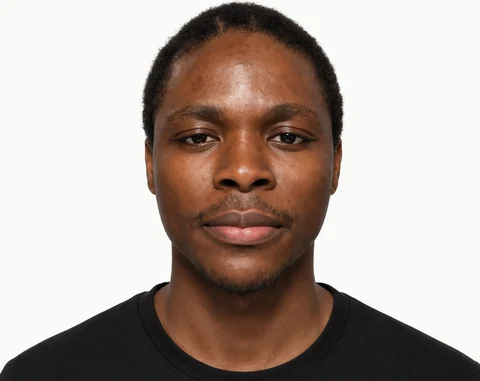
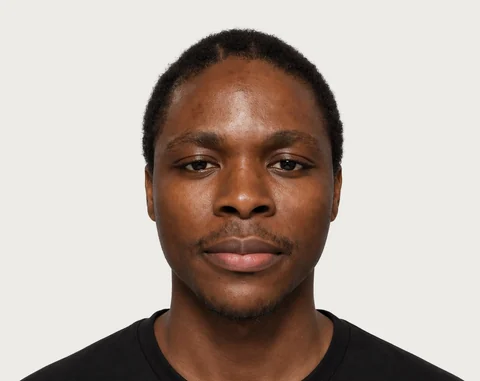
Portrait backdrop and headroom, new About copy, bolder meta values
- Portrait: re-exported on an off-white backdrop ($plate-clip, #ECEBE6)
  instead of the page ground, so it reads as a tile in the name rather
  than a floating head, and cropped with 70px of headroom so the hair
  no longer touches the top edge. URLs bumped to ?v=3 for the cache;
  export-portrait.py updated to match.
- About copy: new statement and "Open to" items. At 390 x 844 the open
  About now uses the flow fallback (the page scrolls).
- Case studies: meta values (role, year, stack, status) in Medium, labels
  stay Book and muted.

diff --git a/src/index.html b/src/index.html
@@ -33,7 +33,7 @@
            role line and the work list for the About; see ts/about.ts. The heading's name stays
            "Balogun Oluwasogo" through aria-labelledby. -->
       <h1 class="intro__name" aria-labelledby="name-first name-last">
-        <span class="intro__name-line"><span id="name-first">Balogun</span> <button class="intro__portrait" type="button" aria-label="About Oluwasogo" aria-expanded="false" aria-controls="about-statement about" data-about-toggle><img class="intro__portrait-image" src="assets/images/portrait/portrait-480.webp" srcset="assets/images/portrait/portrait-240.webp 240w, assets/images/portrait/portrait-480.webp 480w" sizes="(min-width: 1024px) 9vw, 15vw" width="480" height="381" alt="" decoding="async"></button></span>
+        <span class="intro__name-line"><span id="name-first">Balogun</span> <button class="intro__portrait" type="button" aria-label="About Oluwasogo" aria-expanded="false" aria-controls="about-statement about" data-about-toggle><img class="intro__portrait-image" src="assets/images/portrait/portrait-480.webp?v=3" srcset="assets/images/portrait/portrait-240.webp?v=3 240w, assets/images/portrait/portrait-480.webp?v=3 480w" sizes="(min-width: 1024px) 9vw, 15vw" width="480" height="381" alt="" decoding="async"></button></span>
         <span class="intro__name-line" id="name-last">Oluwasogo</span>
       </h1>
       <div class="intro__lead">
@@ -41,7 +41,7 @@
           <span class="intro__role-line">Software Engineer &amp;</span>
           <span class="intro__role-line">Digital Designer</span>
         </p>
-        <p class="intro__statement" id="about-statement" data-about-statement>I design interfaces and build them myself, so what gets designed is what ships.</p>
+        <p class="intro__statement" id="about-statement" data-about-statement>I design and build digital experiences, from the way they work to the details that make them feel good to use.</p>
       </div>
     </header>
 
@@ -66,9 +66,9 @@
             </div>
             <div class="about__fact">
               <dt>Open to</dt>
-              <dd>Frontend builds and product interfaces</dd>
-              <dd>Webflow websites</dd>
-              <dd>Interaction and motion</dd>
+              <dd>Product design and development</dd>
+              <dd>Custom websites and Webflow builds</dd>
+              <dd>Interaction design and motion</dd>
             </div>
           </dl>
         </div>

diff --git a/docs/handoff/about/reference/index.html b/docs/handoff/about/reference/index.html
@@ -44,7 +44,7 @@
           <span class="intro__role-line">Software Engineer &amp;</span>
           <span class="intro__role-line">Digital Designer</span>
         </p>
-        <p class="intro__statement" id="about-statement" data-about-statement="">I design interfaces and build them myself, so what gets designed is what ships.</p>
+        <p class="intro__statement" id="about-statement" data-about-statement="">I design and build digital experiences, from the way they work to the details that make them feel good to use.</p>
       </div>
     </header>
 
@@ -69,9 +69,9 @@
             </div>
             <div class="about__fact">
               <dt>Open to</dt>
-              <dd>Frontend builds and product interfaces</dd>
-              <dd>Webflow websites</dd>
-              <dd>Interaction and motion</dd>
+              <dd>Product design and development</dd>
+              <dd>Custom websites and Webflow builds</dd>
+              <dd>Interaction design and motion</dd>
             </div>
           </dl>
         </div>

diff --git a/src/scss/_case.scss b/src/scss/_case.scss
@@ -422,10 +422,12 @@ $case-lsb-book: (
   }
 }
 
+// Values in Medium, labels in Book and muted: one step of contrast between the two.
 .case-meta__group {
   display: flex;
   flex-direction: column;
   gap: 2px;
+  font-weight: $weight-medium;
 
   @include desktop {
     grid-column: span 3;
@@ -434,6 +436,7 @@ $case-lsb-book: (
 }
 
 .case-meta__label {
+  font-weight: $weight-regular;
   color: $color-muted;
 
   // Only the label gets the 4px, so Status's value and site link sit line to line like wrapped text.

diff --git a/docs/handoff/about/export-portrait.py b/docs/handoff/about/export-portrait.py
@@ -1,26 +1,29 @@
 """Export the home-page portrait from the original photo.
 
-The photo has a plain white background. Instead of blending it into the page at runtime
-(mix-blend-mode changes how Chrome renders every line of text on the page), the page's ground
-colour is multiplied into the pixels here, so the background comes out as #FAFAF8 and only the
-head and shoulders read on the page.
+The photo has a plain white background. Instead of blending it at runtime (mix-blend-mode
+changes how Chrome renders every line of text on the page), a backdrop colour is multiplied into
+the pixels here. It's $plate-clip (#ECEBE6), one step darker than the #FAFAF8 ground, so the
+portrait reads as a small tile in the name rather than a head floating on the page. (The first
+export baked the ground itself; that looked like a floating head.)
 
-Crop: the full width, from 2px above the top of the hair, at the portrait's ratio
-(0.9em x 0.715em, see $portrait-width and $cap-height-medium), so the hair touches the cap line
-and the shoulders sit on the baseline.
+Crop: the full width, from 70px above the top of the hair, at the portrait's ratio
+(0.9em x 0.715em, see $portrait-width and $cap-height-medium), so there's a little headroom
+inside the tile and the shoulders sit on the baseline. (The first export started 2px above the
+hair, which made the head touch the top of the frame.)
 
 Usage (from the repo root, needs Pillow):
     python docs/handoff/about/export-portrait.py "Balogun Oluwasogo Profile.jpg"
-If the ground colour ever changes, update GROUND and run it again.
+If the backdrop should change, update BACKDROP and run it again. Bump the ?v= on the portrait
+URLs in src/index.html too, because images are cached for a week.
 """
 import sys
 from pathlib import Path
 
 from PIL import Image
 
-GROUND = (250, 250, 248)  # $color-ground, #FAFAF8
+BACKDROP = (236, 235, 230)  # $plate-clip, #ECEBE6
 RATIO = 0.9 / 0.715  # $portrait-width / $cap-height-medium
-TOP = 126  # 2px above the top of the hair in the 1254 x 1254 original
+TOP = 56  # 70px above the top of the hair (row 126) in the 1254 x 1254 original
 WIDTHS = (240, 480)
 OUT = Path('src/assets/images/portrait')
 
@@ -29,10 +32,10 @@ def main(source: str) -> None:
     photo = Image.open(source).convert('RGB')
     width = photo.width
     crop = photo.crop((0, TOP, width, TOP + round(width / RATIO)))
-    # The background is 254 white: lift it to 255, then multiply the ground in.
+    # The background is 254 white: lift it to 255, then multiply the backdrop in.
     channels = []
-    for band, ground in zip(crop.split(), GROUND):
-        channels.append(band.point(lambda v, g=ground: round(min(255, v * 255 / 254) * g / 255)))
+    for band, backdrop in zip(crop.split(), BACKDROP):
+        channels.append(band.point(lambda v, b=backdrop: round(min(255, v * 255 / 254) * b / 255)))
     baked = Image.merge('RGB', channels)
     OUT.mkdir(parents=True, exist_ok=True)
     for w in WIDTHS:

diff --git a/CLAUDE.md b/CLAUDE.md
@@ -16,7 +16,7 @@ Balogun Oluwasogo's personal portfolio: a home page and four case studies (`/wor
 - **About:** a portrait sits inside the name ("Balogun [photo] Oluwasogo") as one more glyph: cap height tall (`$cap-height-medium`), bottom on the baseline, `$portrait-width` wide. It's a `<button>` ("About Oluwasogo", with `aria-expanded`); the `<h1>` keeps its name through `aria-labelledby`. Opening it sets `.page.is-about-open` (`src/ts/about.ts`): the role line becomes a statement and "Work" and the list become the About (bio, then Now / Open to), laid over what they replace so the default layout never moves. Spec: `docs/handoff/about/README.md`.
   - **Input:** on desktop with a mouse (the preview's media query) hover opens it at once and leaving closes it after 100ms; a mouse click does nothing. Touch, pen and anything without that match tap to toggle. Keyboard: Enter and Space toggle; Escape, Tab, Shift+Tab and (on desktop) blur close it. Focus alone never opens it, because the portrait is the first tab stop.
   - **Flow fallback:** if the About would come within 32px of the statement (short screens such as 375 × 667 or 1280 × 600), `.page.is-about-flow` drops the role and the list and puts the statement and About in the flow, so the page scrolls instead of overlapping.
-  - **The photo:** `src/assets/images/portrait/` is final. Its white background is baked to the ground colour by `docs/handoff/about/export-portrait.py`; run that again if the ground changes. Never use `mix-blend-mode` on it: it changes how Chrome rasterises every line of text on the page.
+  - **The photo:** `src/assets/images/portrait/` is final. Its white background is baked to an off-white backdrop, `$plate-clip` (#ECEBE6), by `docs/handoff/about/export-portrait.py`, so it reads as a small tile in the name; baking the ground colour itself made the head look like it was floating. To change the backdrop, re-run the script and bump the `?v=` on the portrait URLs in `index.html`. Never use `mix-blend-mode` on it: it changes how Chrome rasterises every line of text on the page.
   - **Tokens:** `$lsb-w-book`, `$cap-height-medium`, `$portrait-width`, `$about-out`, `$about-delay`, and the `about-layer-hidden` / `about-layer-shown` mixins.
 - **Project data:** lives in `src/ts/projects.ts` (title, `meta` type line, `description` and `role` paragraphs, image, URL, optional `caseStudy` and `hidden`). The list, preview, description column and sheet all read from it.
 - **Case-study links:** a project with `caseStudy` links there in the same tab from the desktop list (no `target`, no hidden suffix), and its sheet link reads "Read case study". Every other project keeps "Visit site" in a new tab.

diff --git a/docs/handoff/about/README.md b/docs/handoff/about/README.md
@@ -175,7 +175,7 @@ The role and the statement share one place, as do the list and the About, so the
 
 ## 7. Copy (as written; change it only in `index.html`)
 
-- **Statement:** I design interfaces and build them myself, so what gets designed is what ships.
+- **Statement:** I design and build digital experiences, from the way they work to the details that make them feel good to use.
 - **Heading:** About
 - **Bio:**
   - I’m Oluwasogo, a software engineer and digital designer in Lagos, Nigeria. I work on product interfaces, websites, and the small interactions that make them feel considered.
@@ -184,9 +184,9 @@ The role and the statement share one place, as do the list and the About, so the
   - Software Developer, AXA Mansard
   - Design and frontend, Ace Trail Tutors
 - **Open to:**
-  - Frontend builds and product interfaces
-  - Webflow websites
-  - Interaction and motion
+  - Product design and development
+  - Custom websites and Webflow builds
+  - Interaction design and motion
 
 Don't add claims, metrics or testimonials. The curly apostrophe in "I’m" is intended.
 

diff --git a/README.md b/README.md
@@ -45,7 +45,7 @@ src/
     og-image.png        1200×630 share image, b. wordmark
     fonts/              PP Neue Montreal .woff2 files (committed), plus Figtree for the Acetrail case study
     images/projects/    featured-work preview images
-    images/portrait/    the About portrait (240w and 480w webp, background baked to the ground; final)
+    images/portrait/    the About portrait (240w and 480w webp, on an off-white backdrop baked in; final)
     images/case/        case-study images (webp, two widths each), video posters and share images
     video/              case-study videos (mp4, h.264, no audio)
   scss/
